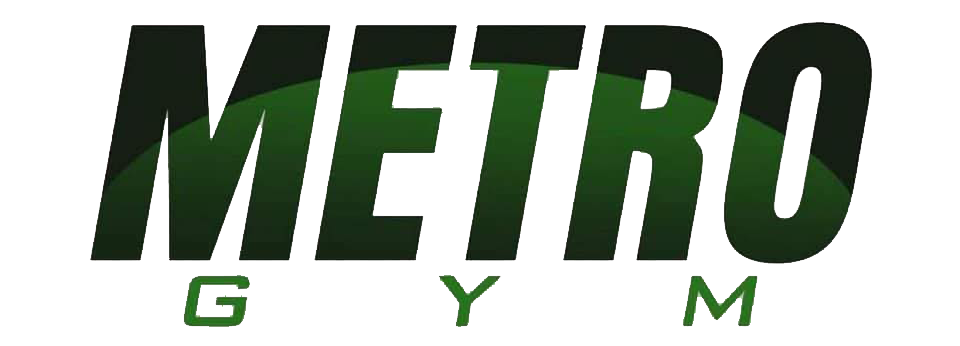
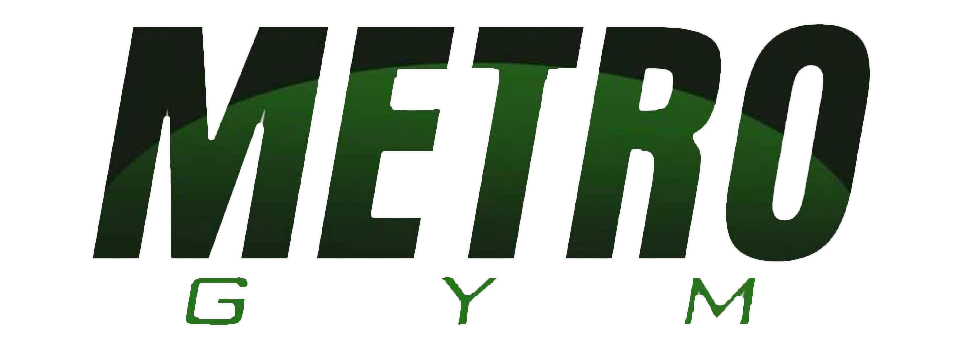
style has be change

diff --git a/src/index.css b/src/index.css
@@ -24,24 +24,22 @@ input{
     border: none;
 }
 .logo img{
-    width: 90px;
+    width: 150px;
 }
 #main{
     width:100%;
-    height:768px;
+    height:868px;
     position: relative;
     background-repeat: no-repeat;
     background-size: cover;
-    background-image: url('./images/banner.png');
+    background-image: url('./images/banner.jpg');
     position: relative;
     z-index: 0;
 }
 #main::before{
     position: absolute;
     content: "";
-    background: -moz-radial-gradient(center, ellipse cover, rgba(181, 8, 8, 0.38) 0%, rgba(0, 0, 0, 0.6) 100%);
-    background: -webkit-radial-gradient(center, ellipse cover, rgba(181, 8, 8, 0.38) 0%, rgba(0, 0, 0, 0.6) 100%);
-    background: radial-gradient(ellipse at center, rgba(181, 8, 8, 0.38) 0%, rgba(0, 0, 0, 0.6) 100%);
+    background: radial-gradient(ellipse at center, rgba(48, 181, 8, 0.38) 0%, rgba(0, 0, 0, 0.6) 100%);
     filter: progid:DXImageTransform.Microsoft.gradient( startColorstr='#61b50808', endColorstr='#99000000',GradientType=1 );
     top: 0;
     left: 0;
@@ -77,7 +75,7 @@ nav ul{
 .active:hover{
     background-color: #000000;
     color:#ffffff;
-	box-shadow: 5px 10px 30px rgba(198, 64, 64, 0.411);
+	box-shadow: 5px 10px 30px rgba(104, 245, 9, 0.411);
 	transition: all ease 0.2s;
 }
 nav ul li a{
@@ -96,9 +94,9 @@ nav ul li a{
     transition: 0.2s ease-in-out;
 }
 nav ul li a:hover{
-	background-color: #FF1414;
+	background-color: #29bc12;
     color:#ffffff;
-	box-shadow: 5px 10px 30px rgba(255, 2, 2, 0.336);
+	box-shadow: 5px 10px 30px rgba(2, 255, 36, 0.336);
 	transition: all ease 0.2s;
 }
 nav .menu-btn,
@@ -179,8 +177,6 @@ nav .menu-btn,
     display: flex;
     justify-content: center;
     align-content: center;
-
-
 }
 .a-box{
     background-color: #000000;
@@ -205,8 +201,8 @@ nav .menu-btn,
 
 }
 .a-box:hover{
-    border: 1px solid #FF1414;
-    box-shadow: 2px 2px 12px rgba(184, 0, 0, 0.445);
+    border: 1px solid #29bc12;
+    box-shadow: 2px 2px 12px rgba(4, 236, 4, 0.445);
 }
 .a-b-text{
     width: 100%;
@@ -251,8 +247,19 @@ nav .menu-btn,
     position: relative;
     background-repeat: no-repeat;
     background-size: cover;
-    background-image: url(images/offer.png);
+    background-image: url(images/offer.jpg);
     text-align: center;
+}
+
+#presentation::before{
+    position: absolute;
+    content: "";
+    background: radial-gradient(ellipse at center, rgba(48, 181, 8, 0.30) 0%, rgba(0, 0, 0, 0.2) 85%); 
+    filter: progid:DXImageTransform.Microsoft.gradient( startColorstr='#61b50808', endColorstr='#99000000',GradientType=1 );
+    top: 0;
+    left: 0;
+    width: 100%;
+    height: 100%;
 }
 
 .pr-heading{
@@ -265,7 +272,7 @@ nav .menu-btn,
 	transform: translate(-50%,-55%);
 }
 .pr-heading span{
-    color: #FF1414;
+    color: #57ff14;
 }
 .pr-heading .details{
     font-size: 23px;
@@ -293,8 +300,8 @@ nav .menu-btn,
 	justify-content: center;
     align-items: center;
     font-size: 1.4rem;
-    background-color: #FF1414;
-    box-shadow: 5px 10px 30px rgba(255, 2, 2, 0.336);
+    background-color: #29bc12;
+    box-shadow: 5px 10px 30px rgba(23, 255, 2, 0.336);
     border-radius: 5px;
 	color:#ffffff;
 }
@@ -302,7 +309,7 @@ nav .menu-btn,
 	background-color: transparent;
     transition: all ease 0.5s;
     color: #ffffff;
-    border: 2px solid #FF1414;
+    border: 2px solid #3bff14;
 }
 
 #about{
@@ -324,7 +331,7 @@ nav .menu-btn,
 }
 .about-text h1{
 	font-size: 3rem;
-	color:#FF1414;
+	color:#07f11a;
     font-weight: 500;
     margin: 0px;
 	padding: 0px;
@@ -343,10 +350,10 @@ nav .menu-btn,
 	border: none;
     outline: none;
     color: #ffffff;
-	background-color:#FF1414;
+	background-color:#10e210;
 }
 .about-text button:hover{
-    box-shadow: 5px 10px 30px rgba(255, 2, 2, 0.336);
+    box-shadow: 5px 10px 30px rgba(53, 255, 2, 0.336);
 	background-color: rgb(0, 0, 0);
     transition: all ease 0.3s;
     color: #ffffff;
@@ -356,6 +363,7 @@ nav .menu-btn,
 }
 .about-image img{
   width: 600px;
+    border-radius: 25px;
 }
 
 #contact{
@@ -394,7 +402,7 @@ nav .menu-btn,
 }
 #contact form input[type="submit"]{
     height: 45px;
-    background: linear-gradient(90deg, #FF1414 20%,#f70000);
+    background: linear-gradient(90deg, #27ff14 20%,#08f700);
     color: #ffffff;
     text-transform: uppercase;
 }
@@ -535,7 +543,7 @@ nav .menu-btn,
             top:65px;
             left:0px;
             background-color:#000000;
-            border-bottom:4px solid #FF1414;
+            border-bottom:4px solid #57ff14;
             width:100%;
             padding:0px;
             margin:0px;

diff --git a/src/Components/Offer.jsx b/src/Components/Offer.jsx
@@ -5,7 +5,7 @@ export const Offer = () => {
         <h1>A BIG <span>FOR THIS SUMMER</span></h1>
         <p className="details">Lorem ipsum dolor sit amet, qui minim labore adipisicing cillum.</p>
         <div className="pr-btns">
-          <a href="#" className='pr-btn'></a>
+          <a href="#" className='pr-btn'>Join Now</a>
         </div>
       </div>
     </div>

diff --git a/index.html b/index.html
@@ -2,7 +2,7 @@
 <html lang="en">
   <head>
     <meta charset="UTF-8" />
-    <link rel="icon" type="image/svg+xml" href="/vite.svg" />
+    <link rel="icon" type="image/png" href="/icon.png" />
     <meta name="viewport" content="width=device-width, initial-scale=1.0" />
     <title>Metro Gym</title>
   </head>

diff --git a/src/Components/Navbar.jsx b/src/Components/Navbar.jsx
@@ -1,5 +1,5 @@
 import React, { useState } from 'react'
-import logo from '../images/logo.png'
+import logo from '../images/metro.png'
 import { Link } from 'react-scroll'
 
 export const Navbar = () => {

diff --git a/src/Components/About.jsx b/src/Components/About.jsx
@@ -1,5 +1,5 @@
 import React from 'react'
-import aboutimage from '../images/about.png'
+import aboutimage from '../images/about.jpg'
 
 export const About = () => {
   return (
